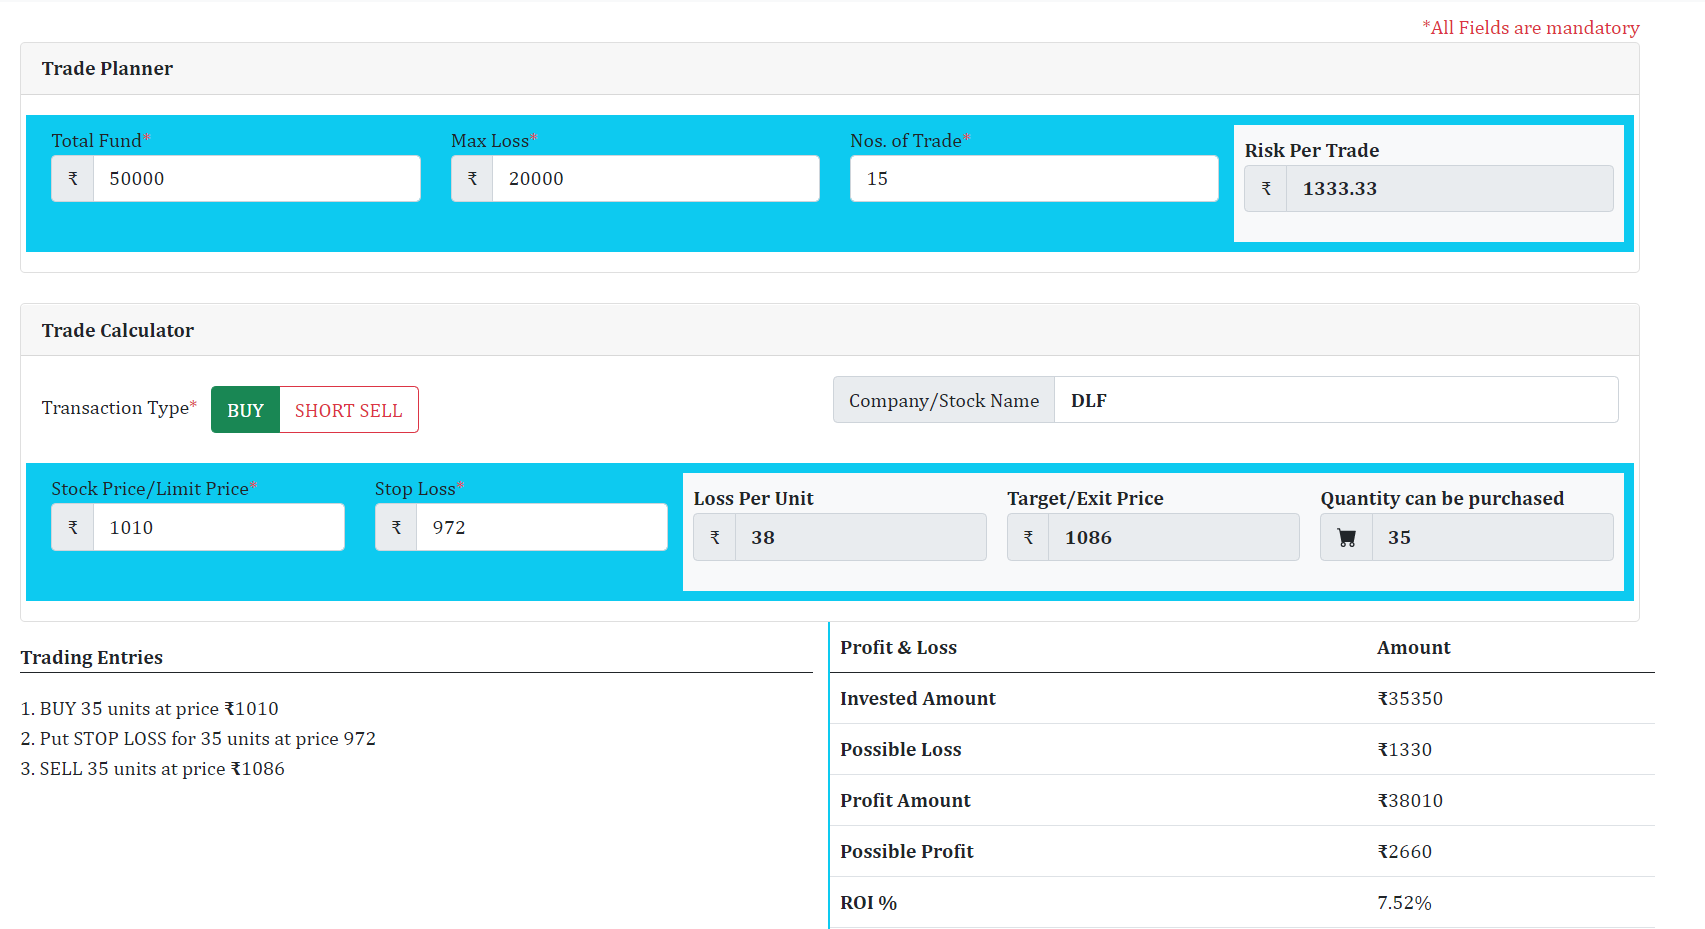
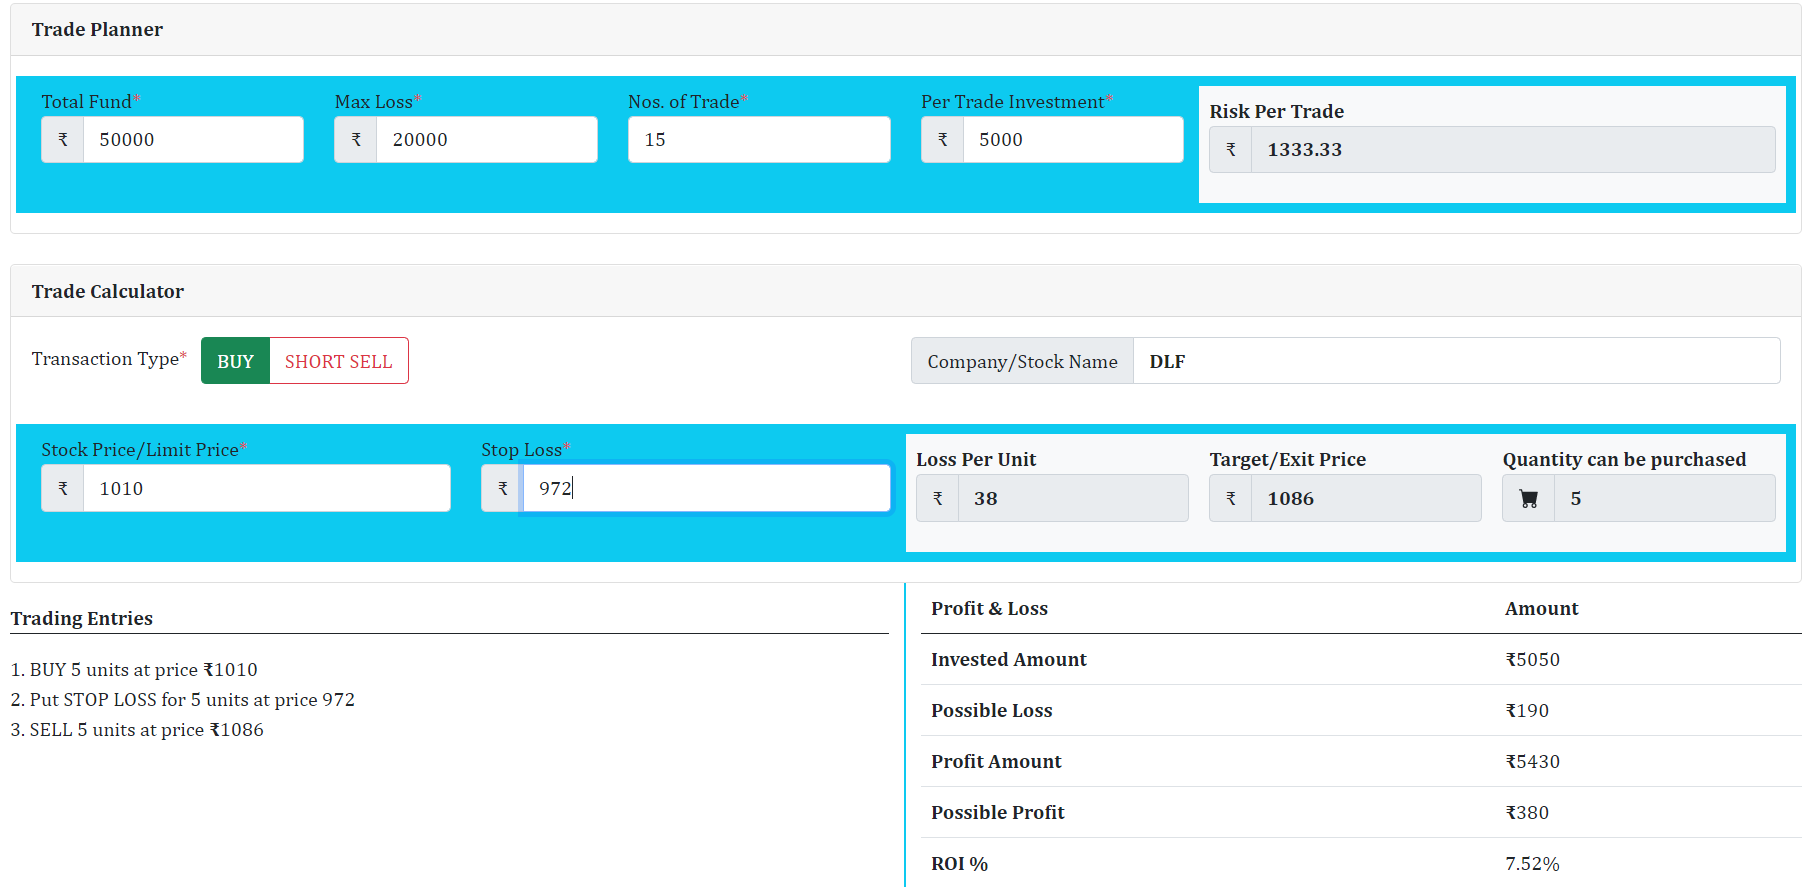
mobile responsive

diff --git a/src/main/resources/static/js/custom.js b/src/main/resources/static/js/custom.js
@@ -51,9 +51,6 @@ $( document ).ready(function() {
 	   				shortSellTransactionHandler(stockPrice,stopLoss,lossPerUnit,quantity);
 	   			}
 	   			
-	   			
-	   			
-	   			
 			}
    	});	
 	
@@ -65,12 +62,7 @@ $( document ).ready(function() {
      
      $("#resetFormLink").on("click", function(e) {
 		
-			$(".trade-plan-element").text("");
-     		$(".trade-plan-element").val("");
-			$(".quantity-plan-element").text("");
-     		$(".quantity-plan-element").val("");
-     		$(".profit-loss-cell").text("");
-     		$('#tradeEntries').text("");
+			resetForm();
 		
      });
      
@@ -93,7 +85,8 @@ function buyTransactionHandler(stockPrice,stopLoss,lossPerUnit,quantity)
 		let maxInvestmentPerTrade = $("#maxInvestmentPerTradeTxt").val();
 		if(investmentAmount > parseFloat(maxInvestmentPerTrade))
 		{
-			quantity = Math.round(parseFloat(maxInvestmentPerTrade)/buyPrice);
+			let tempQty = parseFloat(maxInvestmentPerTrade)/buyPrice;
+			quantity = (tempQty<1) ? 0 : Math.round(tempQty);
 			investmentAmount = buyPrice * Math.round(quantity);
 			$("#quantityUnitsLbl").text(Math.round(quantity));
 		}
@@ -122,7 +115,13 @@ function buyTransactionHandler(stockPrice,stopLoss,lossPerUnit,quantity)
 					  "3. SELL "+Math.round(quantity)+" units at price "+ruppeSymbol+targetPrice;
 					  
 			$('#tradeEntries').html(entries);		
-		}	  
+		}	
+		
+		if(quantity===0)
+		{
+			$(".profit-loss-cell").text("");
+			$('#tradeEntries').html("<span class='text-danger'>Insufficiant Investment per trade to buy this share</span>");	
+		}  
 }
 
 function shortSellTransactionHandler(stockPrice,stopLoss,lossPerUnit,quantity)
@@ -134,7 +133,8 @@ function shortSellTransactionHandler(stockPrice,stopLoss,lossPerUnit,quantity)
 		let maxInvestmentPerTrade = $("#maxInvestmentPerTradeTxt").val();
 		if(investmentAmount > parseFloat(maxInvestmentPerTrade))
 		{
-			quantity = Math.round(parseFloat(maxInvestmentPerTrade)/targeBuyPrice);
+			let tempQty = parseFloat(maxInvestmentPerTrade)/targeBuyPrice;
+			quantity = (tempQty<1) ? 0 : Math.round(tempQty);
 			investmentAmount = targeBuyPrice * Math.round(quantity);
 			$("#quantityUnitsLbl").text(Math.round(quantity));
 		}
@@ -150,6 +150,7 @@ function shortSellTransactionHandler(stockPrice,stopLoss,lossPerUnit,quantity)
 			$("#targetLbl").text(Math.round(targeBuyPrice));
 		}
 		
+		
 		if(!isNaN(investmentAmount) && !isNaN(possibleLoss) && !isNaN(totalProfit) && !isNaN(possibleProfit) && !isNaN(roi))
 		{
 			$("#investedAmountCell").html(ruppeSymbol+investmentAmount);
@@ -164,4 +165,19 @@ function shortSellTransactionHandler(stockPrice,stopLoss,lossPerUnit,quantity)
 					  
 			$('#tradeEntries').html(entries);	
 		}
+		
+		if(quantity===0)
+		{
+			$(".profit-loss-cell").text("");
+			$('#tradeEntries').html("<span class='text-danger'>Insufficiant Investment per trade to buy this share</span>");	
+		}
+}
+
+function resetForm()
+{
+	$(".trade-plan-element").text("");
+	$(".trade-plan-element").val("");
+	$(".quantity-plan-element").text("");
+	$(".quantity-plan-element").val("");
+	$('#tradeEntries').html("");	
 }
